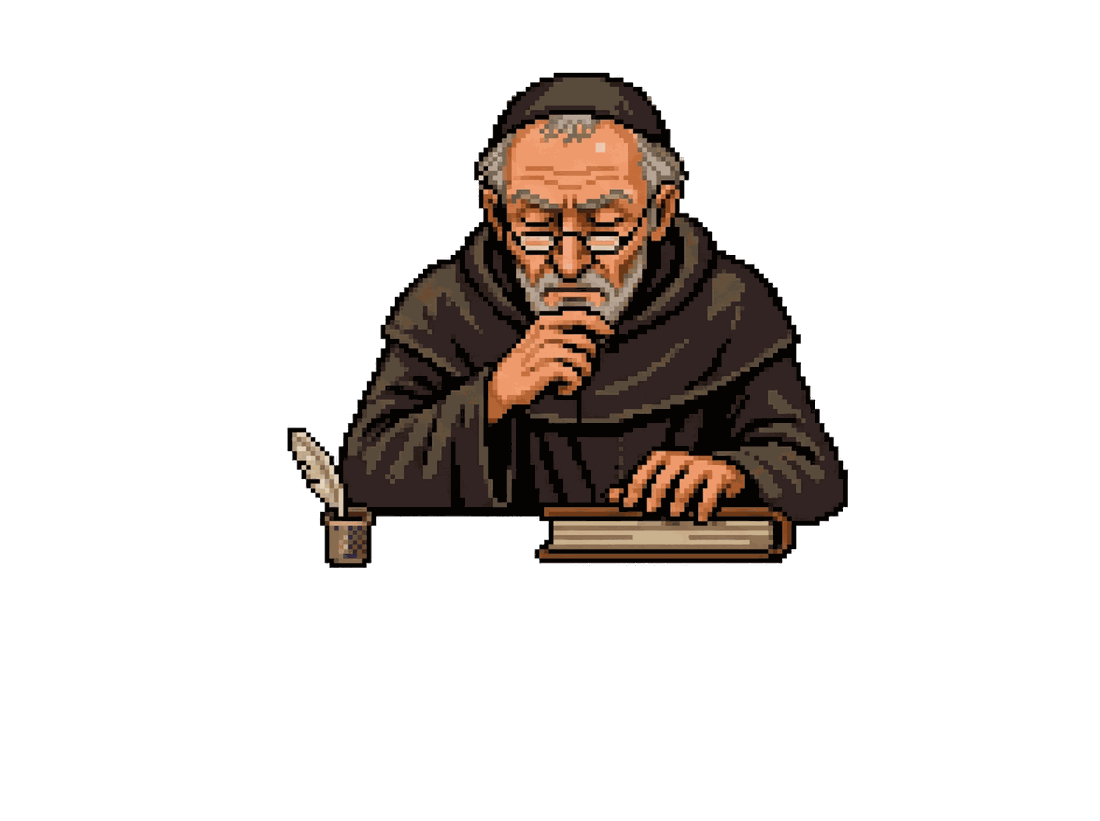
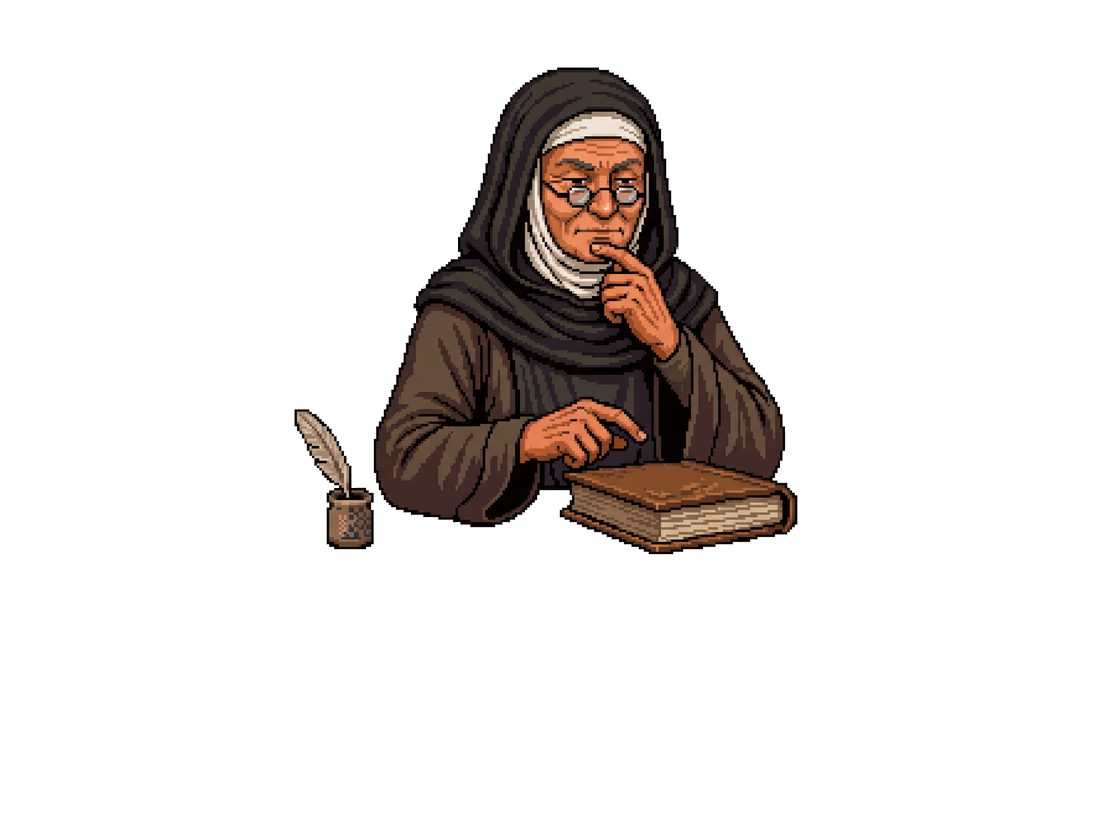
Replace Scholar portrait with a woman; fix Spanish grammatical gender
Art source and processing identical to the Tactician/Gambler/Elder work
(AI-generated via Gemini, 4px feathered background removal, rescaled to
the cast's average content bbox, zopfli lossless recompression) -- same
pose and props as before (spectacles, book, quill and inkpot), just a
woman rather than the previous male depiction. Requested to diversify
what was otherwise an all-male cast.

Spanish grammatically genders the character's own name ("El Erudito"),
which would have mismatched the new portrait -- English needed no
equivalent fix. Changed to "La Erudita" everywhere: game.es.js's
CHARACTER_NAME map, two internal comments, template.es.html's dropdown
option, the opponent-roster intro paragraph ("la aguda Erudita"), and
the Tactician's fallback-persona mention. Verified via a Spanish-page
browser screenshot showing the corrected label alongside the new art.

Changed region(s): [[0.2473, 0.0609, 0.7727, 0.7004]]

diff --git a/play_dice.es.html b/play_dice.es.html
@@ -171,7 +171,7 @@
 <div class="wrap">
   <h1>Kingdom Come: Deliverance Mesa de práctica de dados</h1>
   <p style="text-align:center; margin:-8px 0 16px;"><a href="play_dice.html" style="color:var(--accent3); font-size:0.85rem;">Read in English</a></p>
-  <p class="sub">Juega contra el oponente que elijas: parroquianos de la taberna, desde el agudo Erudito hasta el temerario Borracho, cada uno con su propio estilo de juego. Al final de cada uno de tus turnos, cada decisión que tomaste se evalúa contra la solución exacta de parada óptima del informe de estrategia, no solo si ganaste el turno, sino si cada decisión fue la correcta dado lo que sabías en ese momento.</p>
+  <p class="sub">Juega contra el oponente que elijas: parroquianos de la taberna, desde la aguda Erudita hasta el temerario Borracho, cada uno con su propio estilo de juego. Al final de cada uno de tus turnos, cada decisión que tomaste se evalúa contra la solución exacta de parada óptima del informe de estrategia, no solo si ganaste el turno, sino si cada decisión fue la correcta dado lo que sabías en ese momento.</p>
 
   <div class="card" id="matchSettings">
     <div style="display:flex; flex-wrap:wrap; gap:14px 18px; align-items:flex-end;">
@@ -191,12 +191,12 @@
         <label style="margin-top:0;">Oponente</label>
         <select id="oppSelect">
           <option value="random" selected>El Bufón: el estilo de un parroquiano distinto cada turno</option>
-          <option value="optimal">El Erudito: juega la estrategia óptima para un solo turno, y siempre se queda con la jugada que gana la partida</option>
+          <option value="optimal">La Erudita: juega la estrategia óptima para un solo turno, y siempre se queda con la jugada que gana la partida</option>
           <option value="thresholds">El Intendente: guarda lo máximo que puede, solo arriesga cuando las probabilidades lo favorecen</option>
           <option value="stop3">El Vigía: se detiene en cuanto quedan menos de 3 dados</option>
           <option value="stop2">El Borracho: sigue tirando hasta quedarse con 1 dado, casi nunca sabe cuándo parar</option>
           <option value="firstscore">El Sacerdote: guarda en cuanto puntúa y da la noche por terminada</option>
-          <option value="raceaware">El Estratega: vigila ambas puntuaciones, arriesga más si va perdiendo y guarda antes si va ganando, exacto solo con el objetivo de 4.000 puntos (con otros objetivos juega como El Erudito)</option>
+          <option value="raceaware">El Estratega: vigila ambas puntuaciones, arriesga más si va perdiendo y guarda antes si va ganando, exacto solo con el objetivo de 4.000 puntos (con otros objetivos juega como La Erudita)</option>
           <option value="gambler">El Apostador: cree que una buena racha significa que la suerte sigue de su lado — una superstición conocida, no probabilidades reales — y arriesga justo cuando debería guardar</option>
           <option value="elder">El Anciano: décadas de juego experto, aunque la vista ya no es la que era — a veces confunde un dado, y se corrige cuando importa</option>
         </select>
@@ -387,8 +387,8 @@ function shouldContinue(k, T){
 // en race_dp.py (ver race_aware_opponent.py), resuelto solo para G=4000: la
 // superficie de valor completa para cualquier objetivo pesaría megabytes por
 // objetivo, lo que el compromiso de peso de página de este sitio descarta.
-// Con cualquier otro objetivo de partida, El Estratega recurre a la tabla del
-// Erudito, ciega a la carrera (ver playOpponentTurn más abajo), en vez de
+// Con cualquier otro objetivo de partida, El Estratega recurre a la tabla de
+// La Erudita, ciega a la carrera (ver playOpponentTurn más abajo), en vez de
 // aproximar en silencio.
 const RACE = (function(){
   const el = document.getElementById('race-data');
@@ -694,7 +694,7 @@ function playOpponentTurn(strategy){
       const minDice = strategy === 'stop3' ? 3 : 2;
       cont = k >= minDice;
     } else if (strategy === 'raceaware'){
-      // Misma preferencia consciente de la victoria que El Erudito, ver arriba.
+      // Misma preferencia consciente de la victoria que La Erudita, ver arriba.
       const winningAction = actions.find(a => oppPreTurnScore + T + a.val >= state.target);
       if (winningAction){
         const kp = winningAction.bc === k ? 6 : k - winningAction.bc;
@@ -1149,7 +1149,7 @@ function finishPlayerTurn(points){
 
 const REAL_STRATEGIES = ['optimal', 'thresholds', 'stop3', 'stop2', 'firstscore', 'raceaware', 'gambler', 'elder'];
 const CHARACTER_NAME = {
-  random: 'El Bufón', optimal: 'El Erudito', thresholds: 'El Intendente',
+  random: 'El Bufón', optimal: 'La Erudita', thresholds: 'El Intendente',
   stop3: 'El Vigía', stop2: 'El Borracho', firstscore: 'El Sacerdote',
   raceaware: 'El Estratega', gambler: 'El Apostador', elder: 'El Anciano',
 };

diff --git a/index.es.html b/index.es.html
@@ -171,7 +171,7 @@
 <div class="wrap">
   <h1>Kingdom Come: Deliverance Mesa de práctica de dados</h1>
   <p style="text-align:center; margin:-8px 0 16px;"><a href="index.html" style="color:var(--accent3); font-size:0.85rem;">Read in English</a></p>
-  <p class="sub">Juega contra el oponente que elijas: parroquianos de la taberna, desde el agudo Erudito hasta el temerario Borracho, cada uno con su propio estilo de juego. Al final de cada uno de tus turnos, cada decisión que tomaste se evalúa contra la solución exacta de parada óptima del informe de estrategia, no solo si ganaste el turno, sino si cada decisión fue la correcta dado lo que sabías en ese momento.</p>
+  <p class="sub">Juega contra el oponente que elijas: parroquianos de la taberna, desde la aguda Erudita hasta el temerario Borracho, cada uno con su propio estilo de juego. Al final de cada uno de tus turnos, cada decisión que tomaste se evalúa contra la solución exacta de parada óptima del informe de estrategia, no solo si ganaste el turno, sino si cada decisión fue la correcta dado lo que sabías en ese momento.</p>
 
   <div class="card" id="matchSettings">
     <div style="display:flex; flex-wrap:wrap; gap:14px 18px; align-items:flex-end;">
@@ -191,12 +191,12 @@
         <label style="margin-top:0;">Oponente</label>
         <select id="oppSelect">
           <option value="random" selected>El Bufón: el estilo de un parroquiano distinto cada turno</option>
-          <option value="optimal">El Erudito: juega la estrategia óptima para un solo turno, y siempre se queda con la jugada que gana la partida</option>
+          <option value="optimal">La Erudita: juega la estrategia óptima para un solo turno, y siempre se queda con la jugada que gana la partida</option>
           <option value="thresholds">El Intendente: guarda lo máximo que puede, solo arriesga cuando las probabilidades lo favorecen</option>
           <option value="stop3">El Vigía: se detiene en cuanto quedan menos de 3 dados</option>
           <option value="stop2">El Borracho: sigue tirando hasta quedarse con 1 dado, casi nunca sabe cuándo parar</option>
           <option value="firstscore">El Sacerdote: guarda en cuanto puntúa y da la noche por terminada</option>
-          <option value="raceaware">El Estratega: vigila ambas puntuaciones, arriesga más si va perdiendo y guarda antes si va ganando, exacto solo con el objetivo de 4.000 puntos (con otros objetivos juega como El Erudito)</option>
+          <option value="raceaware">El Estratega: vigila ambas puntuaciones, arriesga más si va perdiendo y guarda antes si va ganando, exacto solo con el objetivo de 4.000 puntos (con otros objetivos juega como La Erudita)</option>
           <option value="gambler">El Apostador: cree que una buena racha significa que la suerte sigue de su lado — una superstición conocida, no probabilidades reales — y arriesga justo cuando debería guardar</option>
           <option value="elder">El Anciano: décadas de juego experto, aunque la vista ya no es la que era — a veces confunde un dado, y se corrige cuando importa</option>
         </select>
@@ -387,8 +387,8 @@ function shouldContinue(k, T){
 // en race_dp.py (ver race_aware_opponent.py), resuelto solo para G=4000: la
 // superficie de valor completa para cualquier objetivo pesaría megabytes por
 // objetivo, lo que el compromiso de peso de página de este sitio descarta.
-// Con cualquier otro objetivo de partida, El Estratega recurre a la tabla del
-// Erudito, ciega a la carrera (ver playOpponentTurn más abajo), en vez de
+// Con cualquier otro objetivo de partida, El Estratega recurre a la tabla de
+// La Erudita, ciega a la carrera (ver playOpponentTurn más abajo), en vez de
 // aproximar en silencio.
 const RACE = (function(){
   const el = document.getElementById('race-data');
@@ -694,7 +694,7 @@ function playOpponentTurn(strategy){
       const minDice = strategy === 'stop3' ? 3 : 2;
       cont = k >= minDice;
     } else if (strategy === 'raceaware'){
-      // Misma preferencia consciente de la victoria que El Erudito, ver arriba.
+      // Misma preferencia consciente de la victoria que La Erudita, ver arriba.
       const winningAction = actions.find(a => oppPreTurnScore + T + a.val >= state.target);
       if (winningAction){
         const kp = winningAction.bc === k ? 6 : k - winningAction.bc;
@@ -1149,7 +1149,7 @@ function finishPlayerTurn(points){
 
 const REAL_STRATEGIES = ['optimal', 'thresholds', 'stop3', 'stop2', 'firstscore', 'raceaware', 'gambler', 'elder'];
 const CHARACTER_NAME = {
-  random: 'El Bufón', optimal: 'El Erudito', thresholds: 'El Intendente',
+  random: 'El Bufón', optimal: 'La Erudita', thresholds: 'El Intendente',
   stop3: 'El Vigía', stop2: 'El Borracho', firstscore: 'El Sacerdote',
   raceaware: 'El Estratega', gambler: 'El Apostador', elder: 'El Anciano',
 };

diff --git a/build/templates/template.es.html b/build/templates/template.es.html
@@ -24,7 +24,7 @@
 <div class="wrap">
   <h1>Kingdom Come: Deliverance Mesa de práctica de dados</h1>
   <p style="text-align:center; margin:-8px 0 16px;"><a href="{{SIBLING_HREF}}" style="color:var(--accent3); font-size:0.85rem;">Read in English</a></p>
-  <p class="sub">Juega contra el oponente que elijas: parroquianos de la taberna, desde el agudo Erudito hasta el temerario Borracho, cada uno con su propio estilo de juego. Al final de cada uno de tus turnos, cada decisión que tomaste se evalúa contra la solución exacta de parada óptima del informe de estrategia, no solo si ganaste el turno, sino si cada decisión fue la correcta dado lo que sabías en ese momento.</p>
+  <p class="sub">Juega contra el oponente que elijas: parroquianos de la taberna, desde la aguda Erudita hasta el temerario Borracho, cada uno con su propio estilo de juego. Al final de cada uno de tus turnos, cada decisión que tomaste se evalúa contra la solución exacta de parada óptima del informe de estrategia, no solo si ganaste el turno, sino si cada decisión fue la correcta dado lo que sabías en ese momento.</p>
 
   <div class="card" id="matchSettings">
     <div style="display:flex; flex-wrap:wrap; gap:14px 18px; align-items:flex-end;">
@@ -44,12 +44,12 @@
         <label style="margin-top:0;">Oponente</label>
         <select id="oppSelect">
           <option value="random" selected>El Bufón: el estilo de un parroquiano distinto cada turno</option>
-          <option value="optimal">El Erudito: juega la estrategia óptima para un solo turno, y siempre se queda con la jugada que gana la partida</option>
+          <option value="optimal">La Erudita: juega la estrategia óptima para un solo turno, y siempre se queda con la jugada que gana la partida</option>
           <option value="thresholds">El Intendente: guarda lo máximo que puede, solo arriesga cuando las probabilidades lo favorecen</option>
           <option value="stop3">El Vigía: se detiene en cuanto quedan menos de 3 dados</option>
           <option value="stop2">El Borracho: sigue tirando hasta quedarse con 1 dado, casi nunca sabe cuándo parar</option>
           <option value="firstscore">El Sacerdote: guarda en cuanto puntúa y da la noche por terminada</option>
-          <option value="raceaware">El Estratega: vigila ambas puntuaciones, arriesga más si va perdiendo y guarda antes si va ganando, exacto solo con el objetivo de 4.000 puntos (con otros objetivos juega como El Erudito)</option>
+          <option value="raceaware">El Estratega: vigila ambas puntuaciones, arriesga más si va perdiendo y guarda antes si va ganando, exacto solo con el objetivo de 4.000 puntos (con otros objetivos juega como La Erudita)</option>
           <option value="gambler">El Apostador: cree que una buena racha significa que la suerte sigue de su lado — una superstición conocida, no probabilidades reales — y arriesga justo cuando debería guardar</option>
           <option value="elder">El Anciano: décadas de juego experto, aunque la vista ya no es la que era — a veces confunde un dado, y se corrige cuando importa</option>
         </select>

diff --git a/build/templates/game.es.js b/build/templates/game.es.js
@@ -15,8 +15,8 @@ function shouldContinue(k, T){
 // en race_dp.py (ver race_aware_opponent.py), resuelto solo para G=4000: la
 // superficie de valor completa para cualquier objetivo pesaría megabytes por
 // objetivo, lo que el compromiso de peso de página de este sitio descarta.
-// Con cualquier otro objetivo de partida, El Estratega recurre a la tabla del
-// Erudito, ciega a la carrera (ver playOpponentTurn más abajo), en vez de
+// Con cualquier otro objetivo de partida, El Estratega recurre a la tabla de
+// La Erudita, ciega a la carrera (ver playOpponentTurn más abajo), en vez de
 // aproximar en silencio.
 const RACE = (function(){
   const el = document.getElementById('race-data');
@@ -322,7 +322,7 @@ function playOpponentTurn(strategy){
       const minDice = strategy === 'stop3' ? 3 : 2;
       cont = k >= minDice;
     } else if (strategy === 'raceaware'){
-      // Misma preferencia consciente de la victoria que El Erudito, ver arriba.
+      // Misma preferencia consciente de la victoria que La Erudita, ver arriba.
       const winningAction = actions.find(a => oppPreTurnScore + T + a.val >= state.target);
       if (winningAction){
         const kp = winningAction.bc === k ? 6 : k - winningAction.bc;
@@ -770,7 +770,7 @@ function finishPlayerTurn(points){
 
 const REAL_STRATEGIES = ['optimal', 'thresholds', 'stop3', 'stop2', 'firstscore', 'raceaware', 'gambler', 'elder'];
 const CHARACTER_NAME = {
-  random: 'El Bufón', optimal: 'El Erudito', thresholds: 'El Intendente',
+  random: 'El Bufón', optimal: 'La Erudita', thresholds: 'El Intendente',
   stop3: 'El Vigía', stop2: 'El Borracho', firstscore: 'El Sacerdote',
   raceaware: 'El Estratega', gambler: 'El Apostador', elder: 'El Anciano',
 };

diff --git a/ROADMAP.md b/ROADMAP.md
@@ -574,6 +574,14 @@ rest of the cast when rendered through `.character-layer`'s `background-size:100
 then recompressed losslessly with the same zopfli pipeline as Phase 14 (pixel-identical, verified).
 Confirmed in situ via a real browser screenshot of the actual game page, not just the isolated PNG.
 
+**Scholar portrait replaced with a woman (2026-10-12)**, same art pipeline, at the project owner's
+request -- the existing cast was otherwise all-male. Caught and fixed a consequence specific to
+Spanish: "El Erudito" is grammatically masculine, which would have mismatched the new portrait.
+Changed to "La Erudita" everywhere it appears (`game.es.js`'s `CHARACTER_NAME` map and two internal
+comments, `template.es.html`'s dropdown option, the opponent-roster intro paragraph's "la aguda
+Erudita," and the Tactician's fallback-persona mention), verified via a Spanish-page browser
+screenshot. English needed no change ("Scholar" isn't grammatically gendered).
+
 ## Phase 11 (future, not scheduled): Loaded-dice bias measurement
 
 Raised 2026-10-11 while researching opponent strategies and other sites' dice-game content:
